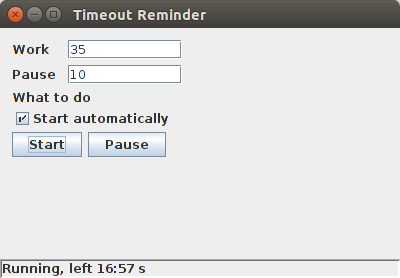
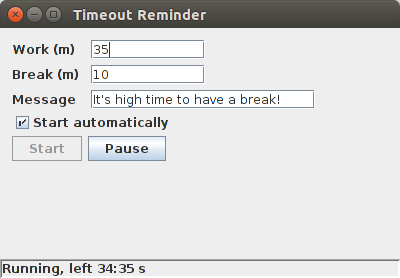
Localized text added

diff --git a/src/main/java/org/karpukhin/timeoutreminder/SwingApp.java b/src/main/java/org/karpukhin/timeoutreminder/SwingApp.java
@@ -41,33 +41,37 @@ public class SwingApp {
     private final OptionsStorage optionsStorage;
     private final ScheduledExecutorService executor;
     private final Reminder reminder;
+    private final MessageSource messageSource;
 
     private final JLabel workLabel;
     private final JTextField workField;
     private final JLabel breakLabel;
     private final JTextField breakField;
-    private final JLabel todoLabel;
+    private final JLabel messageLabel;
+    private final JTextField messageField;
+    //private final JLabel todoLabel;
     private final JCheckBox startAutomaticallyCheckBox;
     private final JButton startButton;
     private final JButton pauseButton;
     private final JLabel statusLabel;
     private final JFrame mainFrame;
 
-    private String message = "Надо сделать перерыв";
-
     protected SwingApp() {
         optionsStorage = new MemoryOptionsStorage();
         executor = Executors.newScheduledThreadPool(2);
         reminder = new Reminder(executor);
+        messageSource = new ResourceBundleMessageSource("messages");
 
-        workLabel = new JLabel("Work");
+        workLabel = new JLabel(messageSource.getMessage("label.work"));
         workField = new JTextField(10);
-        breakLabel = new JLabel("Pause");
+        breakLabel = new JLabel(messageSource.getMessage("label.break"));
         breakField = new JTextField(10);
-        todoLabel = new JLabel("What to do");
-        startAutomaticallyCheckBox = new JCheckBox("Start automatically");
-        startButton = new JButton("Start");
-        pauseButton = new JButton("Pause");
+        messageLabel = new JLabel(messageSource.getMessage("label.message"));
+        messageField = new JTextField(20);
+        //todoLabel = new JLabel("What to do");
+        startAutomaticallyCheckBox = new JCheckBox(messageSource.getMessage("label.start.automatically"));
+        startButton = new JButton(messageSource.getMessage("label.start"));
+        pauseButton = new JButton(messageSource.getMessage("label.pause"));
 
         statusLabel = new JLabel();
         mainFrame = new JFrame(TITLE);
@@ -110,7 +114,8 @@ public class SwingApp {
                     options.setWorkDuration(workDuration);
                     optionsStorage.save(options);
                 } catch (NumberFormatException error) {
-                    JOptionPane.showMessageDialog(mainFrame, "Expected integer but got: " + text, "Error", JOptionPane.ERROR_MESSAGE);
+                    JOptionPane.showMessageDialog(mainFrame, "Expected integer but got: " + text,
+                            messageSource.getMessage("label.error"), JOptionPane.ERROR_MESSAGE);
                     workField.requestFocus();
                 }
             }
@@ -125,7 +130,8 @@ public class SwingApp {
                     options.setWorkDuration(breakDuration);
                     optionsStorage.save(options);
                 } catch (NumberFormatException error) {
-                    JOptionPane.showMessageDialog(mainFrame, "Expected integer but got: " + text, "Error", JOptionPane.ERROR_MESSAGE);
+                    JOptionPane.showMessageDialog(mainFrame, "Expected integer but got: " + text,
+                            messageSource.getMessage("label.error"), JOptionPane.ERROR_MESSAGE);
                     breakField.requestFocus();
                 }
             }
@@ -144,7 +150,8 @@ public class SwingApp {
                 try {
                     startReminder();
                 } catch (Exception error) {
-                    JOptionPane.showMessageDialog(mainFrame, "Start error: " + error.getMessage(), "Error", JOptionPane.ERROR_MESSAGE);
+                    JOptionPane.showMessageDialog(mainFrame, "Start error: " + error.getMessage(),
+                            messageSource.getMessage("label.error"), JOptionPane.ERROR_MESSAGE);
                 }
             }
         });
@@ -158,7 +165,8 @@ public class SwingApp {
                         resumeReminder();
                     }
                 } catch (Exception error) {
-                    JOptionPane.showMessageDialog(mainFrame, "Pause/Resume error: " + error.getMessage(), "Error", JOptionPane.ERROR_MESSAGE);
+                    JOptionPane.showMessageDialog(mainFrame, "Pause/Resume error: " + error.getMessage(),
+                            messageSource.getMessage("label.error"), JOptionPane.ERROR_MESSAGE);
                 }
             }
         });
@@ -194,16 +202,18 @@ public class SwingApp {
         layout.setHorizontalGroup(layout.createParallelGroup()
                 .addGroup(layout.createSequentialGroup()
                         .addGroup(layout.createParallelGroup()
-                                        .addComponent(workLabel)
-                                        .addComponent(breakLabel)
+                                .addComponent(workLabel)
+                                .addComponent(breakLabel)
+                                .addComponent(messageLabel)
                         )
                         .addPreferredGap(LayoutStyle.ComponentPlacement.RELATED)
                         .addGroup(layout.createParallelGroup()
-                                        .addComponent(workField, GroupLayout.PREFERRED_SIZE, GroupLayout.DEFAULT_SIZE, GroupLayout.PREFERRED_SIZE)
-                                        .addComponent(breakField, GroupLayout.PREFERRED_SIZE, GroupLayout.DEFAULT_SIZE, GroupLayout.PREFERRED_SIZE)
+                                .addComponent(workField, GroupLayout.PREFERRED_SIZE, GroupLayout.DEFAULT_SIZE, GroupLayout.PREFERRED_SIZE)
+                                .addComponent(breakField, GroupLayout.PREFERRED_SIZE, GroupLayout.DEFAULT_SIZE, GroupLayout.PREFERRED_SIZE)
+                                .addComponent(messageField, GroupLayout.PREFERRED_SIZE, GroupLayout.DEFAULT_SIZE, GroupLayout.PREFERRED_SIZE)
                         )
                 )
-                .addComponent(todoLabel)
+                //.addComponent(todoLabel)
                 .addComponent(startAutomaticallyCheckBox)
                 .addGroup(layout.createSequentialGroup()
                         .addComponent(startButton)
@@ -219,7 +229,11 @@ public class SwingApp {
                                 .addComponent(breakLabel)
                                 .addComponent(breakField, GroupLayout.PREFERRED_SIZE, GroupLayout.DEFAULT_SIZE, GroupLayout.PREFERRED_SIZE)
                 )
-                .addComponent(todoLabel)
+                        .addGroup(layout.createParallelGroup(GroupLayout.Alignment.BASELINE)
+                                        .addComponent(messageLabel)
+                                        .addComponent(messageField, GroupLayout.PREFERRED_SIZE, GroupLayout.DEFAULT_SIZE, GroupLayout.PREFERRED_SIZE)
+                        )
+                //.addComponent(todoLabel)
                 .addComponent(startAutomaticallyCheckBox)
                 .addGroup(layout.createParallelGroup()
                         .addComponent(startButton)
@@ -242,6 +256,12 @@ public class SwingApp {
         workField.setText(Integer.toString(options.getWorkDuration()));
         breakField.setText(Integer.toString(options.getBreakDuration()));
         startAutomaticallyCheckBox.setSelected(options.isStartAutomatically());
+        String message = options.getMessage();
+        if (message == null || message.isEmpty()) {
+            message = messageSource.getMessage("default.message");
+            options.setMessage(message);
+        }
+        messageField.setText(message);
     }
 
     private void scheduleFetching() {
@@ -272,7 +292,7 @@ public class SwingApp {
             public void run() {
                 try {
                     System.out.println("Time to break!");
-                    Runtime.getRuntime().exec(new String[]{"zenity", "--info", "--title=" + TITLE, "--text=" + message});
+                    Runtime.getRuntime().exec(new String[]{"zenity", "--info", "--title=" + TITLE, "--text=" + messageField.getText()});
                     System.out.println("Message was shown");
                 } catch (IOException e) {
                     e.printStackTrace();
@@ -282,19 +302,19 @@ public class SwingApp {
         Options options = optionsStorage.load();
         reminder.start(options.getWorkDuration(), command);
         startButton.setEnabled(false);
-        pauseButton.setText("Pause");
+        pauseButton.setText(messageSource.getMessage("label.pause"));
     }
 
     private void pauseReminder() {
         reminder.pause();
         startButton.setEnabled(true);
-        pauseButton.setText("Resume");
+        pauseButton.setText(messageSource.getMessage("label.resume"));
     }
 
     private void resumeReminder() {
         reminder.resume();
         startButton.setEnabled(false);
-        pauseButton.setText("Pause");
+        pauseButton.setText(messageSource.getMessage("label.pause"));
     }
 
     protected void show() {

diff --git a/src/main/java/org/karpukhin/timeoutreminder/ResourceBundleMessageSource.java b/src/main/java/org/karpukhin/timeoutreminder/ResourceBundleMessageSource.java
@@ -1,0 +1,30 @@
+package org.karpukhin.timeoutreminder;
+
+import java.util.Locale;
+import java.util.ResourceBundle;
+
+/**
+ * @author Pavel Karpukhin
+ * @since 23.07.15
+ */
+public class ResourceBundleMessageSource implements MessageSource {
+
+    private ResourceBundle resourceBundle;
+    private ResourceBundle defaultResourceBundle;
+
+    public ResourceBundleMessageSource(String baseName) {
+        resourceBundle = ResourceBundle.getBundle(baseName);
+        defaultResourceBundle = ResourceBundle.getBundle(baseName, Locale.ENGLISH);
+    }
+
+    @Override
+    public String getMessage(String key) {
+        if (resourceBundle.containsKey(key)) {
+            return resourceBundle.getString(key);
+        }
+        if (defaultResourceBundle.containsKey(key)) {
+            return defaultResourceBundle.getString(key);
+        }
+        return key;
+    }
+}

diff --git a/src/main/java/org/karpukhin/timeoutreminder/Options.java b/src/main/java/org/karpukhin/timeoutreminder/Options.java
@@ -9,6 +9,7 @@ public class Options {
     private int workDuration;
     private int breakDuration;
     private boolean startAutomatically;
+    private String message;
 
     public int getWorkDuration() {
         return workDuration;
@@ -32,5 +33,13 @@ public class Options {
 
     public void setStartAutomatically(boolean startAutomatically) {
         this.startAutomatically = startAutomatically;
+    }
+
+    public String getMessage() {
+        return message;
+    }
+
+    public void setMessage(String message) {
+        this.message = message;
     }
 }

diff --git a/src/main/java/org/karpukhin/timeoutreminder/MessageSource.java b/src/main/java/org/karpukhin/timeoutreminder/MessageSource.java
@@ -1,0 +1,10 @@
+package org.karpukhin.timeoutreminder;
+
+/**
+ * @author Pavel Karpukhin
+ * @since 23.07.15
+ */
+public interface MessageSource {
+
+    String getMessage(String key);
+}

diff --git a/README.md b/README.md
@@ -1,6 +1,6 @@
 Timeout Reminder
 ================
+Reminds you when it is high time to have a break.
 
-Main window:
-
+###Screenshots###
 ![Main window](timeout-reminder.png)
